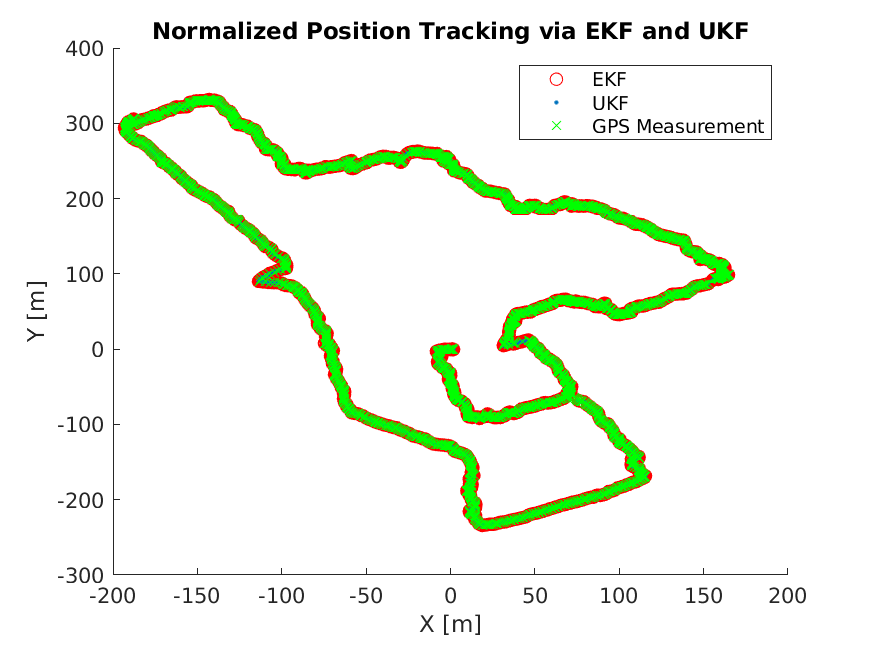
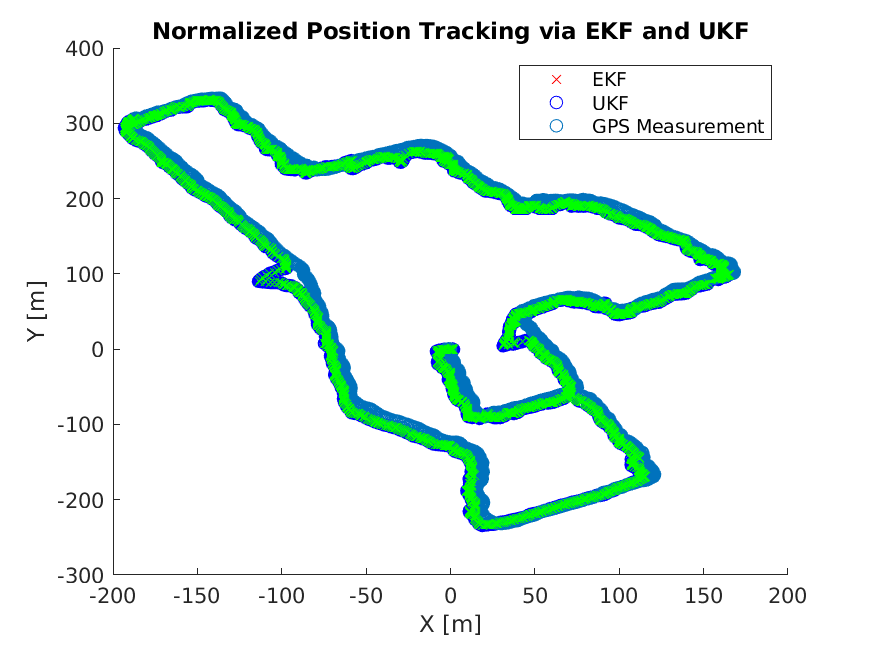
added

Changed region(s): [[0.124, 0.1238, 0.868, 0.8359], [0.62, 0.0929, 0.651, 0.2167]]

diff --git a/data_analysis.m b/data_analysis.m
@@ -3,11 +3,16 @@
 clc;
 close all;
 figure();
+title('Velocity Tracking via EKF and UKF');
+xlabel('Time [\mu s]')
+ylabel('V_x [m s^{-1}]')
 hold on
-plot(x_ukf(3, 26500:27000),'-x') % UKF Estimation
-plot(x(3,26500:27000),'-o') % EKF Estimation
-plot(Y(26500:27000,3),'-s') % real data
+plot(RawAccel(26900:27000,1), x_ukf(3, 26900:27000),'-x') % UKF Estimation
+plot(RawAccel(26900:27000,1), x(3,26900:27000),'-o') % EKF Estimation
+plot(RawAccel(26900:27000,1), Y(26900:27000,3),'-s') % real data
 hold off
+saveas(gcf,'velocity_tracking.png')
+
 clc
 ukf_check_vx = (x_ukf(3,1:27000)' - Y(1:27000,3));
 ukf_RMS_vx = mean(norm(ukf_check_vx,'fro'));
@@ -22,18 +27,21 @@ clc;
 close all;
 figure();
 hold on
-plot(RawAccel(26500:27000, 1),x_ukf(1, 26500:27000),'-x') % UKF Estimation
-plot(RawAccel(26500:27000, 1),x(1,26500:27000),'-o') % EKF Estimation
-plot(RawAccel(26500:27000, 1),x_input(26500:27000,1)-x_input(1,1),'-s') % real data
+title('X Position Tracking versus Time via EKF and UKF');
+xlabel('Time [\mu s]')
+ylabel('x [m]')
+plot(RawAccel(26900:26950, 1),x_ukf(1, 26900:26950),'-x') % UKF Estimation
+plot(RawAccel(26900:26950, 1),x(1,26900:26950),'-o') % EKF Estimation
+plot(RawAccel(26900:26950, 1),x_input(26900:26950,1)-x_input(1,1),'-s') % real data
 hold off
 
-ukf_check_x = (x_ukf(1,1:27000)' - (x_input(1:27000,1)-x_input(1,1)));
-ukf_RMS_pos_x =(norm(ukf_check_x,'fro')/sqrt(27000));
-ekf_check_x = (x(1,1:27000)' - (x_input(1:27000,1)-x_input(1,1)));
-ekf_RMS_pos_x =(norm(ekf_check_x,'fro')/sqrt(27000));
-
-disp(ukf_RMS_pos_x)
-disp(ekf_RMS_pos_x)
+ukf_check_y = (x_ukf(2,1:27000)' - (y_input(1:27000,1)-y_input(1,1)));
+ukf_RMS_pos_y =(norm(ukf_check_y,'fro')/sqrt(27000));
+ekf_check_y = (x(2,1:27000)' - (y_input(1:27000,1)-y_input(1,1)));
+ekf_RMS_pos_y =(norm(ekf_check_y,'fro')/sqrt(27000));
+saveas(gcf,'velocity_tracking_with_time.png')
+disp(ukf_RMS_pos_y)
+disp(ekf_RMS_pos_y)
 %% GPS
 
 close all;
@@ -49,11 +57,29 @@ hold off
 close all;
 figure();
 hold on
+XMIN = 4.5E+8
+XMAX = 5.3E+8
+YMIN = 25
+YMAX = 42
+axis([XMIN XMAX YMIN YMAX])
+title('Input Position (X) Based on Sensory Measurements for EKF and UKF');
+xlabel('Time [\mu s]')
+ylabel('X [m]')
 scatter(RawAccel(1:27000,1),x_input(1:27000,1)-x_input(1,1),'r') % real data
 scatter(OnboardGPS(:,1), output(:,1)-output(1,1),'g');
 hold off
+saveas(gcf,'sensory_x.png')
 figure();
 hold on
+XMIN = 4.8E+8
+XMAX = 4.85E+8
+YMIN = 26
+YMAX = 30
+axis([XMIN XMAX YMIN YMAX])
+title('Input Position Based on Sensory Measurements for EKF and UKF');
+xlabel('Time [\mu s]')
+ylabel('Y [m]')
 scatter(RawAccel(1:27000,1),y_input(1:27000,1)-y_input(1,1),'r') % real data
 scatter(OnboardGPS(:,1), output(:,2)-output(1,2),'g');
+saveas(gcf,'sensory_y.png')
 hold off

diff --git a/plotPath.m b/plotPath.m
@@ -2,8 +2,8 @@
 % close
 clc
 % load the data into matlab 
-run('\\client\c$\Users\KJR03\AE598\ae598\AGZ_subset\loadGroundTruthAGL.m');
-% run('/home/johnkan2/ae598/final_proj/ae598/AGZ_subset/loadGroundTruthAGL.m');
+% run('\\client\c$\Users\KJR03\AE598\ae598\AGZ_subset\loadGroundTruthAGL.m');
+run('/home/johnkan2/ae598/final_proj/ae598/AGZ_subset/loadGroundTruthAGL.m');
 % load('onboardgps.mat')
 % plot ground truth positions
 %% Plot the stuff
@@ -18,19 +18,55 @@ clc
 close all;
 figure();
 hold on
+title('Normalized Position Tracking via EKF and UKF');
+xlabel('X [m]')
+ylabel('Y [m]')
 % plot(x_input(:,1)-x_input(1,1),y_input(:,1)-y_input(1,1),'-o');
-scatter(x(1,50:27000), x(2,50:27000),'o','r');
-% scatter(x_gt-x_gt(1),y_gt-y_gt(1));
-scatter(x_gps-x_gps(1), y_gps-y_gps(1),'x','g')
-scatter(x_ukf(1,50:27000),x_ukf(2,50:27000),'.');
+scatter(x(1,1:27000), x(2,1:27000),'x','r');
+scatter(x_ekf(1,1:27000), x_ekf(2,1:27000),'o','b');
+scatter(x_gt-x_gt(1),y_gt-y_gt(1));
+% scatter(x_ukf(1,1:27000),x_ukf(2,1:27000),'.');
+scatter(x_gps-x_gps(1), y_gps-y_gps(1),'x','g');
+legend('EKF','UKF','GPS Measurement');
 % scatter(gps_vec(:,1)-x_gt(1), gps_vec(:,2)-x_gt(2),'x')
-% saveas(gcf,'output1_4_27_2019.png')
+
 hold off
+
+saveas(gcf,'path_plot_final.png')
+%%
+clc
+close all;
+figure();
+XMIN = 90
+XMAX = 110
+YMIN = 40
+YMAX = 62
+hold on
+title('Normalized Position Tracking via EKF and UKF');
+xlabel('X [m]')
+ylabel('Y [m]')
+axis([XMIN XMAX YMIN YMAX])
+% plot(x_input(:,1)-x_input(1,1),y_input(:,1)-y_input(1,1),'-o');
+scatter(x(1,1:27000), x(2,1:27000),'o','r');
+% scatter(x_gt-x_gt(1),y_gt-y_gt(1));
+scatter(x_ukf(1,1:27000),x_ukf(2,1:27000),'.');
+scatter(x_gps-x_gps(1), y_gps-y_gps(1),'x','g');
+legend('EKF','UKF','GPS Measurement');
+% scatter(gps_vec(:,1)-x_gt(1), gps_vec(:,2)-x_gt(2),'x')
+
+hold off
+
+saveas(gcf,'path_plot_final_zoom.png')
+
+
+%%
+
 figure();
 hold on
-plot(x_ukf(3, 26000:27000),'-x') % UKF Estimation
-plot(x(3,26000:27000),'-o') % EKF Estimation
-plot(Y(26000:27000,3),'-s') % real data
+
+plot(x_ukf(3, 26900:27000),'-x') % UKF Estimation
+plot(x(3,26900:27000),'-o') % EKF Estimation
+plot(Y(26900:27000,3),'-s') % real data
 hold off
 % plot3(x_gt, y_gt, zeros(2708,1), '.')
 % grid on

diff --git a/timing.m b/timing.m
@@ -1,0 +1,43 @@
+%% EKF
+close all;
+num_points_vec = [100, 1000, 10000, 15000, 20000, 25000];
+time_elapsed =   [  0.055543, 0.546664, 4.619367, 6.915015, 9.091876, 11.214172;
+                    0.050048, 0.464550, 4.456990, 6.849361, 8.968956, 11.337758;
+                    0.050605, 0.503496, 4.548662, 6.799907, 8.923555, 11.326292 ];
+mean_time_vec = mean(time_elapsed)
+figure()
+scatter(num_points_vec, mean_time_vec)
+title('EKF: Number of Points versus Mean Time');
+xlabel('Number of Points');
+ylabel('Time Elapsed (s)');
+saveas(gcf,'ekf_num_points_mean_time.png');
+% Time for one point
+figure();
+title('EKF:Number of Points versus Time Elapsed for Each Point');
+scatter(num_points_vec, mean_time_vec./num_points_vec/(10^(-3)))
+xlabel('Number of Points');
+ylabel('Time Elapsed [ms]');
+saveas(gcf,'ekf_num_points_single_op_time.png');
+average_time_per_point = mean(mean_time_vec./num_points_vec/(10^(-3)));
+% UKF
+clc; clear all;
+close all;
+num_points_vec = [100, 1000, 10000, 15000, 20000, 25000];
+time_elapsed =   [  0.055543, 0.546664, 4.619367, 6.915015, 9.091876, 11.214172;
+                    0.050048, 0.464550, 4.456990, 6.849361, 8.968956, 11.337758;
+                    0.050605, 0.503496, 4.548662, 6.799907, 8.923555, 11.326292 ];
+mean_time_vec = mean(time_elapsed)
+figure()
+scatter(num_points_vec, mean_time_vec)
+title('EKF: Number of Points versus Mean Time');
+xlabel('Number of Points');
+ylabel('Time Elapsed (s)');
+saveas(gcf,'ekf_num_points_mean_time.png');
+% Time for one point
+figure();
+title('EKF:Number of Points versus Time Elapsed for Each Point');
+scatter(num_points_vec, mean_time_vec./num_points_vec/(10^(-3)))
+xlabel('Number of Points');
+ylabel('Time Elapsed [ms]');
+saveas(gcf,'ekf_num_points_single_op_time.png');
+average_time_per_point = mean(mean_time_vec./num_points_vec/(10^(-3)));

diff --git a/EKF.m b/EKF.m
@@ -17,35 +17,36 @@ f = 32
 %%
 t_start = 1
 %Initial conditions
-x_0 = x_input(1);
-y_0 = y_input(2);
+x_0 = 0;
+y_0 = 0;
 V_x_0 = 0;
 V_y_0 = 0;
 a_x_0 = 0;
-a_y_0 = 0;
+a_y_0 = 0;  
 psi_0 = 0;
 omega_0 =0;
 
 x = zeros(8,K);
 x_east(:,1) = [x_0,V_x_0,a_x_0]';
 x_north(:,1) = [y_0,V_y_0,a_y_0]';
-x(:,1) = [x_east(:,1); x_north(:,1);psi_0;omega_0];
-Ts = 0.01; %10 Hz
+% x(:,1) = [x_east(:,1); x_north(:,1);psi_0;omega_0];
+x_ekf(:,1) = [x_0, y_0, V_x_0, V_y_0, a_x_0, a_y_0, psi_0, omega_0]';
+% Ts = 0.01; %10 Hz
 
 
 %EKF
 % Essentially: 
 % obj = extendedKalmanFilter(x_k, y_k, x_init);
 obj = extendedKalmanFilter(@stateTransitionFunc,@measurementFcn,x(:,1));
-obj.MeasurementNoise = diag([10; 10; 1; 1; 1; 1; 1])
+obj.MeasurementNoise = diag([0.1; 0.1; 0.1; 0.1; 10; 10; 010]);
 % for the ETH dataset, the t_start = RawAccel(1,1) --> this is in
 % microseconds
 tic
-for k =t_start:K
+for k =t_start:25000
     y = [x_input(k,1)-x_input(1,1) y_input(k,1)-y_input(1,1) Y(k,3:7)]'; % this needs to be changed to [x_input(k,1) y_input(k,1) ...]
     [CorrectedState,CorrectedStateCovariance] = correct(obj,y);
     [PredictedState,PredictedStateCovariance] = predict(obj);
-    x(:,k) = obj.State(:,1);
+    x_ekf(:,k) = obj.State(:,1);
 end
 toc
 

diff --git a/getSensorData.m b/getSensorData.m
@@ -1,10 +1,15 @@
 function [objectActualLocation_x,objectActualLocation_y,Y,K] = getSensorData(N)
 % This function will return the groudntruth locations (x and y), as well as
 % the measurement functions
-working_directory = '\\client\c$\Users\KJR03\AE598\ae598\'; % FILL THIS IN
-accel_location = 'AGZ_subset\Log_Files\rawaccel.mat'; % FILL THIS IN
-gps_location = 'AGZ_subset\Log_Files\rawgyro.mat';% FILL THIS IN
-gyro_location = 'AGZ_subset\Log_Files\onboardgps.mat';% FILL THIS IN
+working_directory = '/home/johnkan2/ae598/final_proj/ae598/'; % FILL THIS IN
+accel_location = 'AGZ_subset/Log_Files/rawaccel.mat'; % FILL THIS IN
+gps_location = 'AGZ_subset/Log_Files/rawgyro.mat';% FILL THIS IN
+gyro_location = 'AGZ_subset/Log_Files/onboardgps.mat';% FILL THIS IN
+
+% working_directory = '\\client\c$\Users\KJR03\AE598\ae598\'; % FILL THIS IN
+% accel_location = 'AGZ_subset\Log_Files\rawaccel.mat'; % FILL THIS IN
+% gps_location = 'AGZ_subset\Log_Files\rawgyro.mat';% FILL THIS IN
+% gyro_location = 'AGZ_subset\Log_Files\onboardgps.mat';% FILL THIS IN
 [Y] = meas_vec(N,working_directory, gps_location,accel_location, gyro_location);
 K = size(Y,1);
 objectActualLocation_x = zeros(size(Y,1),1);
